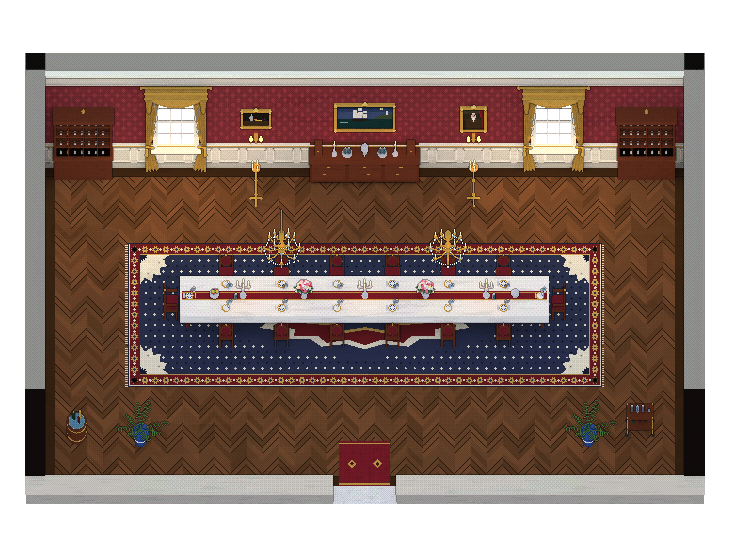
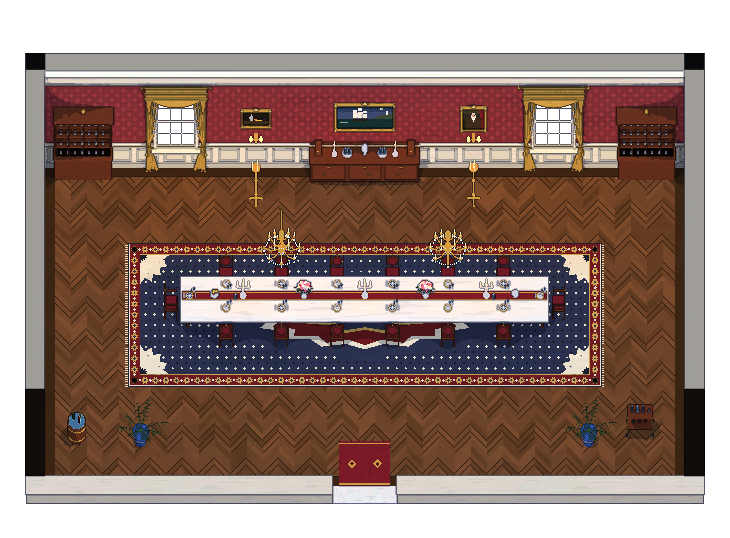
Ashcombe House's dining room re-rendered in the toy finish: its chandeliers, candle stands and sconces stay lit, and at night it's candlelit and warm (a warm night ambient, the sconces softer so they don't burn red blots into the damask) instead of murky
Claude-Session: https://claude.ai/code/session_018nrKRFmqoRAiZo7miU6eXz

diff --git a/tools/bridge-art/scenes/lumar_manor_dining.py b/tools/bridge-art/scenes/lumar_manor_dining.py
@@ -46,7 +46,7 @@ for (x, kind) in ((7.6, 'still'), (14.4, 'portrait')):
         E.still_life(k, x, 2.0, 1.85, w=0.8, h=0.62)
     else:
         E.portrait(k, x, 2.0, 1.7, w=0.66, h=0.9, sitter='gent', coat='#3a2a1a', hair='#d8d4cc')
-    E.sconce(k, x, 2.0, z=1.35, energy=4)
+    E.sconce(k, x, 2.0, z=1.35, energy=1.5)
 
 # ---- the table, laid --------------------------------------------------------------------------------------------------
 E.persian_rug(k, 3.6, 4.4, 18.4, 8.9, field='#2a3048', border='#6a1a1e', accent='#c8a050')
@@ -85,7 +85,7 @@ for (x, r) in ((5.0, 10.0), (17.0, 10.0), (11.0, 10.5), (2.5, 5.0), (19.5, 5.0))
 E.torchere(k, 7.6, 3.1, h=1.7, energy=8)
 E.torchere(k, 14.4, 3.1, h=1.7, energy=8)
 
-render(k, OUT)
+render(k, OUT, ambient=('#5a4a40', 0.75))     # candlelit at night: a warm ambient keeps the whole floor in one band of the toy finish
 
 I = [door('THE HALL', x, y, 'lumar-manor', [7, 3]) for (x, y) in DOORS]
 I += [
